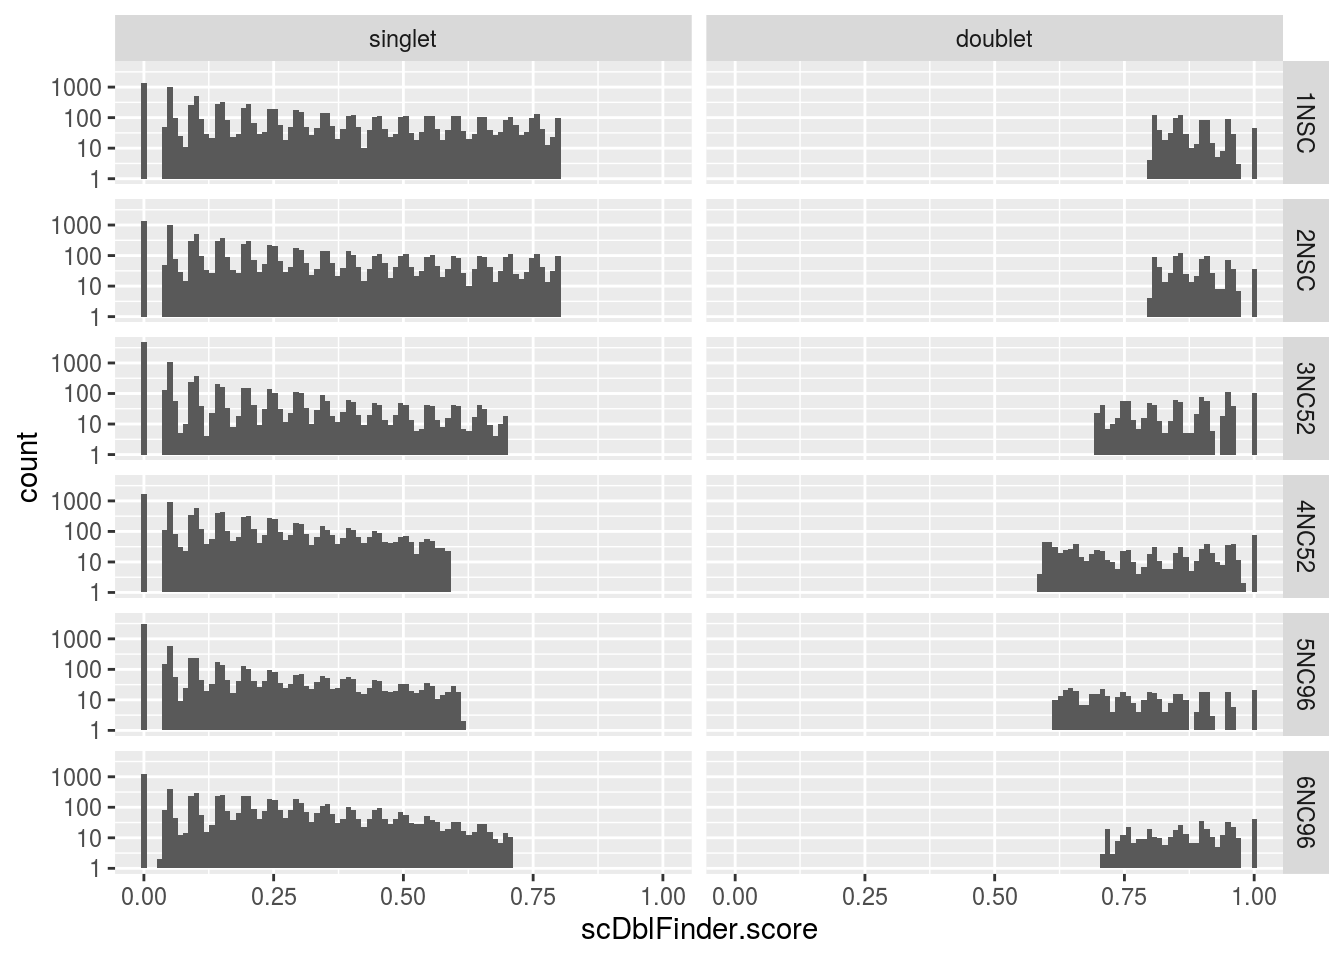
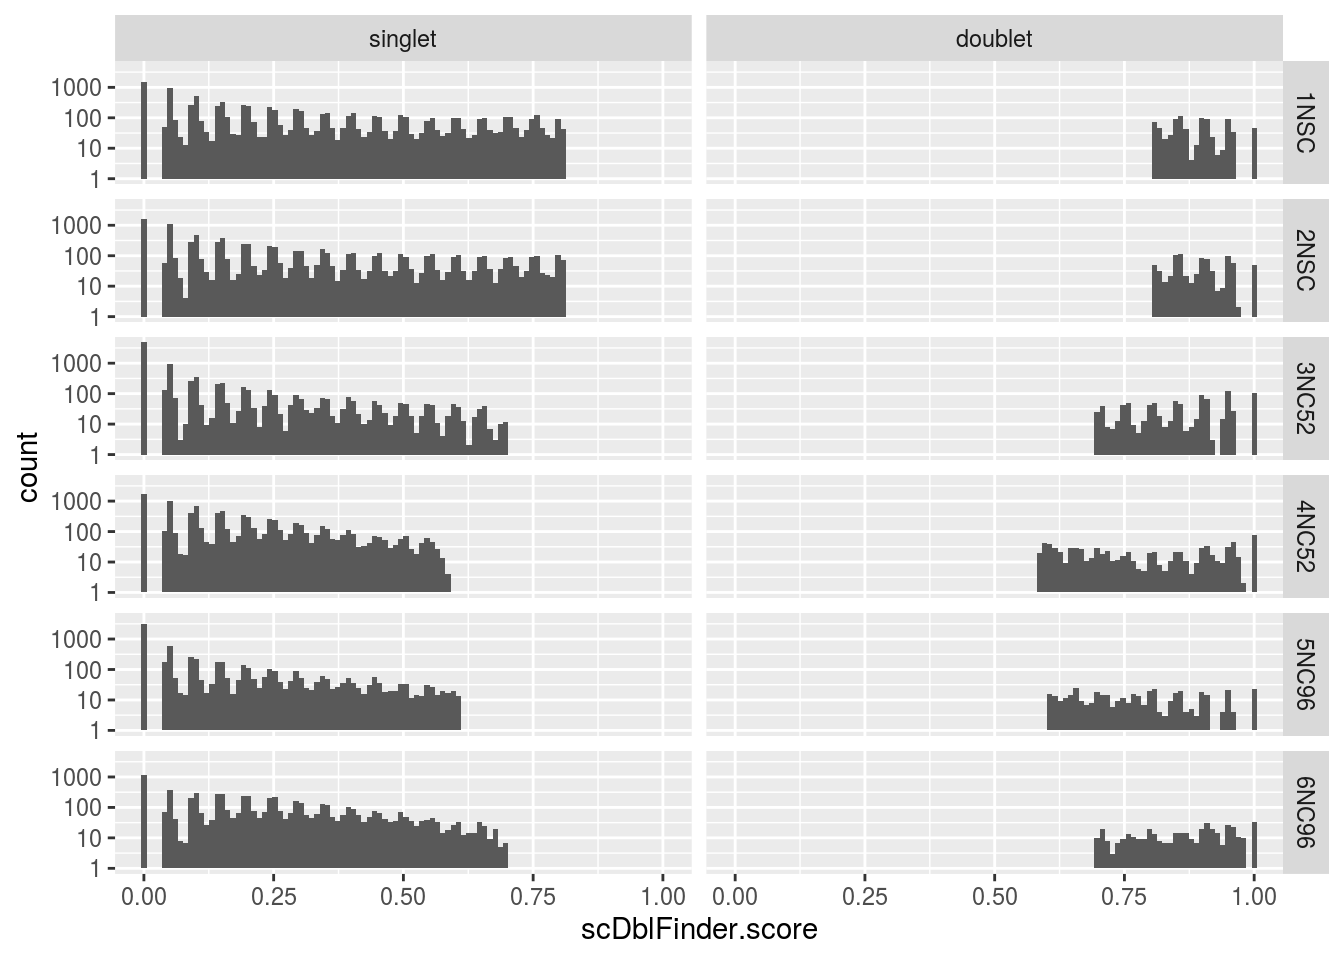
Build site.

diff --git a/docs/01-preprocessing.html b/docs/01-preprocessing.html
@@ -503,16 +503,16 @@ This reproducible <a href="http://rmarkdown.rstudio.com">R Markdown</a> analysis
 <div class="panel panel-default">
 <div class="panel-heading">
 <p class="panel-title">
-<a data-toggle="collapse" data-parent="#workflowr-checks" href="#strongRepositoryversionstrongahrefhttpsgithubcomkhembachneuralscRNAseqtree336ee0cad851f879345cffb59c8ce81eaeaf0942targetblank336ee0ca"> <span class="glyphicon glyphicon-ok text-success" aria-hidden="true"></span> <strong>Repository version:</strong> <a href="https://github.com/khembach/neural_scRNAseq/tree/336ee0cad851f879345cffb59c8ce81eaeaf0942" target="_blank">336ee0c</a> </a>
+<a data-toggle="collapse" data-parent="#workflowr-checks" href="#strongRepositoryversionstrongahrefhttpsgithubcomkhembachneuralscRNAseqtree7379a9b0f8128bf833d22bfc080ddebccebb0dbetargetblank7379a9ba"> <span class="glyphicon glyphicon-ok text-success" aria-hidden="true"></span> <strong>Repository version:</strong> <a href="https://github.com/khembach/neural_scRNAseq/tree/7379a9b0f8128bf833d22bfc080ddebccebb0dbe" target="_blank">7379a9b</a> </a>
 </p>
 </div>
[2 lines of base64/hex data omitted]
 <div class="panel-body">
 <p>
 Great! You are using Git for version control. Tracking code development and connecting the code version to the results is critical for reproducibility.
 </p>
 <p>
-The results in this page were generated with repository version <a href="https://github.com/khembach/neural_scRNAseq/tree/336ee0cad851f879345cffb59c8ce81eaeaf0942" target="_blank">336ee0c</a>. See the <em>Past versions</em> tab to see a history of the changes made to the R Markdown and HTML files.
+The results in this page were generated with repository version <a href="https://github.com/khembach/neural_scRNAseq/tree/7379a9b0f8128bf833d22bfc080ddebccebb0dbe" target="_blank">7379a9b</a>. See the <em>Past versions</em> tab to see a history of the changes made to the R Markdown and HTML files.
 </p>
 <p>
 Note that you need to be careful to ensure that all relevant files for the analysis have been committed to Git prior to generating the results (you can use <code>wflow_publish</code> or <code>wflow_git_commit</code>). workflowr only checks the R Markdown file, but you know if there are other scripts or data files that it depends on. Below is the status of the Git repository when the results were generated:
@@ -636,6 +636,40 @@ Message
 </tr>
 </thead>
 <tbody>
+<tr>
+<td>
+Rmd
+</td>
+<td>
+<a href="https://github.com/khembach/neural_scRNAseq/blob/7379a9b0f8128bf833d22bfc080ddebccebb0dbe/analysis/01-preprocessing.Rmd" target="_blank">7379a9b</a>
+</td>
+<td>
+khembach
+</td>
+<td>
+2020-06-17
+</td>
+<td>
+add histo and PCA for scDblFinder results
+</td>
+</tr>
+<tr>
+<td>
+html
+</td>
+<td>
+<a href="https://rawcdn.githack.com/khembach/neural_scRNAseq/7e96c7171f0b6ed305e8e5b3532f21e0bf05b361/docs/01-preprocessing.html" target="_blank">7e96c71</a>
+</td>
+<td>
+khembach
+</td>
+<td>
+2020-06-17
+</td>
+<td>
+Build site.
+</td>
+</tr>
 <tr>
 <td>
 Rmd
@@ -803,8 +837,8 @@ sce &lt;- scDblFinder(sce, samples=&quot;sample_id&quot;, BPPARAM=MulticoreParam
 table(colData(sce)[,c(&quot;scDblFinder.class&quot;, &quot;sample_id&quot;)])</code></pre>
 <pre><code>                 sample_id
 scDblFinder.class 1NSC 2NSC 3NC52 4NC52 5NC96 6NC96
-          doublet  853  819   918   849   427   410
-          singlet 8893 8854  9082  8866  6573  6286</code></pre>
+          doublet  838  813   904   826   422   404
+          singlet 8908 8860  9096  8889  6578  6292</code></pre>
 <pre class="r"><code># histogram of the doublet scores
 dat &lt;- as.data.frame(colData(sce)[c(&quot;scDblFinder.score&quot;, 
                                     &quot;scDblFinder.class&quot;, &quot;sample_id&quot;)])
@@ -818,21 +852,64 @@ print(p)</code></pre>
 <pre><code>Warning: Transformation introduced infinite values in continuous y-axis</code></pre>
 <pre><code>Warning: Removed 625 rows containing missing values (geom_bar).</code></pre>
 <p><img src="figure/01-preprocessing.Rmd/doublet_removal-1.png" width="672" style="display: block; margin: auto;" /></p>
+<p>
+<button type="button" class="btn btn-default btn-xs btn-workflowr btn-workflowr-fig" data-toggle="collapse" data-target="#fig-doublet_removal-1">
+Past versions of doublet_removal-1.png
+</button>
+</p>
+<div id="fig-doublet_removal-1" class="collapse">
+<div class="table-responsive">
+<table class="table table-condensed table-hover">
+<thead>
+<tr>
+<th>
+Version
+</th>
+<th>
+Author
+</th>
+<th>
+Date
+</th>
+</tr>
+</thead>
+<tbody>
+<tr>
+<td>
+<a href="https://github.com/khembach/neural_scRNAseq/blob/7e96c7171f0b6ed305e8e5b3532f21e0bf05b361/docs/figure/01-preprocessing.Rmd/doublet_removal-1.png" target="_blank">7e96c71</a>
+</td>
+<td>
+khembach
+</td>
+<td>
+2020-06-17
+</td>
+</tr>
+</tbody>
+</table>
+</div>
+</div>
 <pre class="r"><code>## PCA plot colored by doublet score
 for (i in levels(sce$sample_id)) {
   print(i)
   subs &lt;- sce[,sce$sample_id == i]
   subs &lt;- logNormCounts(subs)
   subs &lt;- runPCA(subs)
-  plotPCA(subs, colour_by = &quot;scDblFinder.score&quot;)
-  plotPCA(subs, colour_by = &quot;scDblFinder.class&quot;)
+  print(plotPCA(subs, colour_by = &quot;scDblFinder.score&quot;))
+  print(plotPCA(subs, colour_by = &quot;scDblFinder.class&quot;))
 }</code></pre>
-<pre><code>[1] &quot;1NSC&quot;
-[1] &quot;2NSC&quot;
-[1] &quot;3NC52&quot;
-[1] &quot;4NC52&quot;
-[1] &quot;5NC96&quot;
-[1] &quot;6NC96&quot;</code></pre>
+<pre><code>[1] &quot;1NSC&quot;</code></pre>
+<p><img src="figure/01-preprocessing.Rmd/doublet_removal-2.png" width="672" style="display: block; margin: auto;" /><img src="figure/01-preprocessing.Rmd/doublet_removal-3.png" width="672" style="display: block; margin: auto;" /></p>
+<pre><code>[1] &quot;2NSC&quot;</code></pre>
+<p><img src="figure/01-preprocessing.Rmd/doublet_removal-4.png" width="672" style="display: block; margin: auto;" /><img src="figure/01-preprocessing.Rmd/doublet_removal-5.png" width="672" style="display: block; margin: auto;" /></p>
+<pre><code>[1] &quot;3NC52&quot;</code></pre>
+<p><img src="figure/01-preprocessing.Rmd/doublet_removal-6.png" width="672" style="display: block; margin: auto;" /><img src="figure/01-preprocessing.Rmd/doublet_removal-7.png" width="672" style="display: block; margin: auto;" /></p>
+<pre><code>[1] &quot;4NC52&quot;</code></pre>
+<p><img src="figure/01-preprocessing.Rmd/doublet_removal-8.png" width="672" style="display: block; margin: auto;" /><img src="figure/01-preprocessing.Rmd/doublet_removal-9.png" width="672" style="display: block; margin: auto;" /></p>
+<pre><code>[1] &quot;5NC96&quot;</code></pre>
+<p><img src="figure/01-preprocessing.Rmd/doublet_removal-10.png" width="672" style="display: block; margin: auto;" /><img src="figure/01-preprocessing.Rmd/doublet_removal-11.png" width="672" style="display: block; margin: auto;" /></p>
+<pre><code>[1] &quot;6NC96&quot;</code></pre>
+<p><img src="figure/01-preprocessing.Rmd/doublet_removal-12.png" width="672" style="display: block; margin: auto;" /><img src="figure/01-preprocessing.Rmd/doublet_removal-13.png" width="672" style="display: block; margin: auto;" /></p>
 <pre class="r"><code># we remove the cells that were classified as doublets
 sce &lt;- sce[,sce$scDblFinder.class == &quot;singlet&quot;]</code></pre>
 </div>
